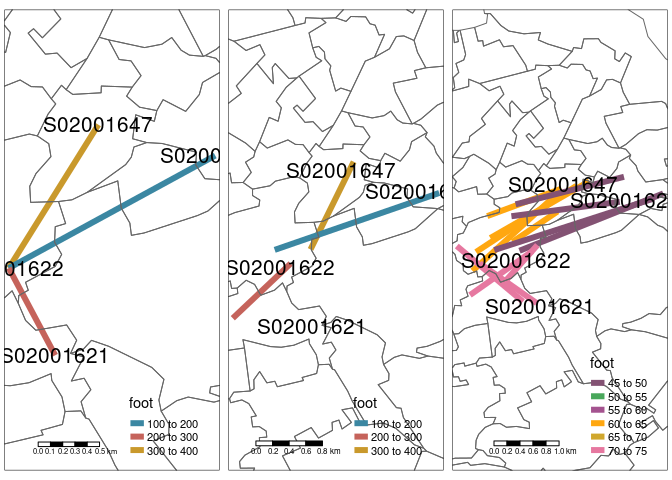
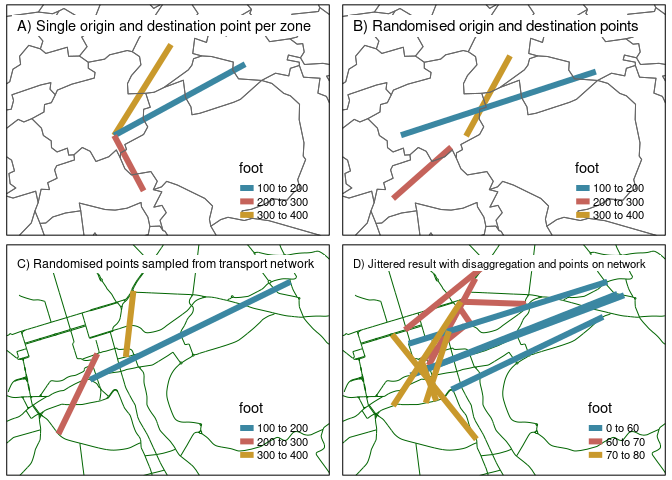
Add demo of jittering to transport network

diff --git a/README.md b/README.md
@@ -1,120 +1,130 @@
+Jittering: A computationally efficient method for generating realistic
+route networks from origin-destination data
+================
 
 <!-- README.md is generated from README.Rmd. Please edit that file -->
-
-# 1 Origin-destination Jittering: A computationally efficient method for generating realistic route networks from origin-destination data
-
 <!-- badges: start -->
 
 [![.github/workflows/render-rmarkdown.yaml](https://github.com/Robinlovelace/odjitter/actions/workflows/render-rmarkdown.yaml/badge.svg)](https://github.com/Robinlovelace/odjitter/actions/workflows/render-rmarkdown.yaml)
 <!-- badges: end -->
 
-# 2 Introduction
+# 1 Questions
 
-Origin-destination (OD) datasets are ubiquitous for representing travel
-behavior in transport planning and modelling. Despite emerging large
-data sources, OD data continues to play an established — if not central
-— role in transport research in the 21<sup>st</sup> century, with recent
-applications ranging from analysis of the evolution of urban activity
-and shared mobility services over time (e.g. Shi et al. 2019; Li et al.
-2019) to inference of congestion and mode split (Bachir et al. 2019; Gao
-et al. 2021). Perhaps in part because they are so well established,
-there has been little research in recent years on new methods for
-processing OD datasets to add value and insight, notwithstanding notable
-exceptions for OD dataset validation (Alexander et al. 2015),
-aggregation (He et al. 2018; Liu et al. 2021) and disaggregation
-(Katranji et al. 2016).
+Origin-destination (OD) datasets are ubiquitous, used by statistical and
+transport planning organisations to efficiently represent aggregate
+travel behavior worldwide. Despite emerging ‘big data’ sources such as
+massive GPS datasets, OD data continues to play an established — if not
+central — role in transport research in the 21<sup>st</sup> century.
+Recent applications range from analysis of the evolution of urban
+activity and shared mobility services over time (e.g. Shi et al. 2019;
+Li et al. 2019) to inference of congestion and mode split (Bachir et al.
+2019; Gao et al. 2021).
 
-An example of the utility of OD data, and the utility of open access
-(anonymised and aggregtated) OD data in particular, is Propensity to
-Cycle Tool (PCT), first launched nationally across England in 2017
-(Lovelace et al. 2017). The PCT provides a strong and consistent
-evidence-base that local authorities across England and Wales are using
-to inform strategic Local Cycling and Walking Plans. Based on OD data —
-initially for commuting trips only but subsequently also based on travel
-to school data (Goodman et al. 2019) — the tool visualises cycling
-potential at zone, desire line, route and route network levels. The PCT
-makes open OD data ‘come to life’ by converting a ‘haystack’ of data
-into meaningful insights into currently cycling levels and future
-potential, highlighting the need to invest in cohesive networks of
-cycling interventions, as illustrated in Figure
-<a href="#fig:haystack">2.1</a>.
+<!-- Perhaps in part because they are so well established, comparatively few recent research papers have explored new methods for processing OD datasets. -->
 
-![Figure 2.1: Illustration of how geographic visualisation and routing
-can add value to OD datasets and make them more policy
-relevant.](https://user-images.githubusercontent.com/1825120/142071229-81358e26-5e8d-437e-9ef8-91704a4e690f.png)
+Recent papers have presented new methods for OD dataset validation
+(Alexander et al. 2015), aggregation (He et al. 2018; Liu et al. 2021)
+and disaggregation (Katranji et al. 2016). To the best of our knowledge,
+this is the first paper to describe and test methods for randomising
+origin and destination points and disaggregation on a real world example
+using reproducible analysis and open access data, a process we refer to
+as ‘jittering’.
 
-The PCT is available for use by local authorities, consultancies,
-cycling advocacy groups, academic researchers and members of the public.
-Subsequent work building on the tool has been used to prioritise
-investment in active transport in the wake of the coronavirus pandemic
-(Lovelace et al. 2020). Due to lack of comparable OD data and/or lack of
-funding, comparable tools have yet to be developed for other countries.
-With the exception of regionally specific models using software such as
-sDNA (Cooper 2017) (the results of which are usually not in the public
-domain) and bespoke city-specific models (Larsen, Patterson, and
-El-Geneidy 2013; Zhang, Magalhaes, and Wang 2014), there are few large
-scale tools using OD data that are free for public use that we are aware
-of.
+<!-- In this paper we outline such methods and their uses, demonstrating how jittering can be used to create more diffuse and accurate estimates of movement at the level of segments ('flows') on transport network, with minimal computational overheads compared with the computationally intensive process of route calculation ('routing') or processing large GPS datasets. -->
+<!-- Long version of paper: -->
+<!-- We do this by defining OD datasets, their uses, and other terms in relation to jittering, in Section <a href="#od"><strong>??</strong></a>; describing a real world case study, input datasets, and methods, in Section <a href="#methods">2</a>; presenting the results of different jittering techniques in Section <a href="#findings">3</a>; and discussing the potential uses of and next steps for the development of methods to add value to OD datasets for sustainable transport planning in section <a href="#discussion"><strong>??</strong></a>. -->
+<!-- Short version of paper: -->
+<!-- We do this by defining OD datasets, their uses, and other terms in relation to jittering, in this introduction; outlining the research question with reference to a real world case study of modelling cycling networks in Edinburgh, in Section <a href="#q"><strong>??</strong></a>; describing the results in Section <a href="#methods">2</a>; and presenting the results of different jittering techniques in Section <a href="#findings">3</a>. -->
+<!-- # Origin-destination data {#od} -->
+<!-- First, a description of the utility of OD data in contemporary policy contexts, and definitions, are in order. -->
+<!-- An example of the utility of OD data, and the utility of open access (anonymised and aggregtated) OD data in particular, is Propensity to Cycle Tool (PCT), first launched nationally across England in 2017 [@lovelace_propensity_2017]. -->
+<!-- The PCT provides a strong and consistent evidence-base that local authorities across England and Wales are using to inform strategic Local Cycling and Walking Plans. -->
+<!-- Based on OD data --- initially for commuting trips only but subsequently also based on travel to school data [@goodman_scenarios_2019] --- the tool visualises cycling potential at zone, desire line, route and route network levels, and is being used by government, consultancy and public/advocacy stakeholders nationwide [@lovelace_open_2020]. -->
+<!-- The PCT makes open OD data 'come to life' by converting a 'haystack' of data into meaningful insights into currently cycling levels and future potential, highlighting the need to invest in cohesive networks of cycling interventions, as illustrated in Figure <a href="#fig:haystack"><strong>??</strong></a>. -->
+<!-- The PCT is available for use by local authorities, consultancies, cycling advocacy groups, academic researchers and members of the public. -->
+<!-- Subsequent work building on the tool has been used to prioritise investment in active transport in the wake of the coronavirus pandemic [@lovelace_methods_2020]. -->
+<!-- Comparable tools have yet to be developed and deployed publicly in most other countries. -->
+<!-- With the exception of regionally specific models using software such as sDNA [@cooper_using_2017] (the results of which are usually not in the public domain) and bespoke city-specific models [@larsen_build_2013; @zhang_prioritizing_2014], there are few large scale tools using OD data that are free for public use that we are aware of. -->
+<!-- In this context, this paper outlines methods to add further value to OD data through processes of disaggregating OD data and 'jittering' to increase the density of route networks arising from the conversion of OD data into route network outputs of the kind illustrated in Figure <a href="#fig:haystack"><strong>??</strong></a>. -->
 
-In this context, this paper outlines methods to add further value to OD
-data through processes of disaggregating OD data and ‘jittering’ to
-increase the density of route networks arising from the conversion of OD
-data into route network outputs of the kind illustrated in Figure
-<a href="#fig:haystack">2.1</a>.
+The following question motivated the development of the jittering
+approach presented in this paper:
 
-Before describing the methods, it is worth briefly defining OD data:
-datasets that consist of:
+> How can OD data representing trips between large geographic zones be
+> used more effectively, to generate results at the level of segments
+> representing route networks of current or potential flow to inform
+> local interventions?
 
--   **Origins**: information the departure for trips, typically a code
-    that refers to a geographic zone or a coordinate representing an
-    approximate point of departure
--   **Destination**: information representing the destination of trips
+Our hypothesis was that pre-processing OD data using methods described
+in this paper would lead to more effective use of OD data in transport
+planning. Before describing the approach to answer this question, some
+definitions are in order:
+
+<!-- , it is worth briefly defining OD data: datasets that consist of: -->
+
+-   **Origins**: information the departure for trips, in this context
+    IDs associated with zones of departure
+-   **Destinations**: IDs representing the destination of trips
 -   **Attributes**: typically the number of trips made between each ‘OD
     pair’, sometimes by mode and with additional attributes such as the
     Euclidean and route distance between the each OD pair
+-   **Jittering**: The combined process of ‘splitting’ OD pairs
+    representing many trips into multiple ‘sub OD’ pairs
+    (disaggregation) and assigning origins and destinations to multiple
+    unique points within each zone
 
-# 3 Research question and hypothesis
-
-The study area is the City of Edinburgh, a local authority with a
-population of just over half a million (524,930 as of
-[2019](https://www.nrscotland.gov.uk/files/statistics/council-area-data-sheets/city-of-edinburgh-council-profile.html)).
-The population was 480,139 in the 2011 Census, 237,839 of whom were
-employed. In the 2011 Census, 4.3% of residents of the area reported
-cycling to work, ranging from 1% in Intermediate Zone (IZ) Ferniehill,
-South Moredun and Craigour to 10% in the IZ Marchmont West. There are
-101 IZs (2001 definition) in the study region (see Figure
-<a href="#fig:izs"><strong>??</strong></a>).
-
-<img src="figures/overview-zones-iz.png" title="Overview of the study region with the percentage cycling to work in 2011 at the level of Intermediate Zones corresponding to fill colour." alt="Overview of the study region with the percentage cycling to work in 2011 at the level of Intermediate Zones corresponding to fill colour." width="90%" />
-
-# 4 Methods and data
+# 2 Methods
 
 <!-- The methods described in this paper were developed to support a project to support Edinburgh City Council with their strategic cycle network planning activity. -->
 <!-- To understand the method and results it makes sense to start by introducing the case study area. -->
 <!-- ## A synthetic example: synthetic zones -->
 <!-- ## Real world example: Edinburgh -->
 
+The study area is the City of Edinburgh, a local authority with a
+population of just over half a million
+[people](https://www.nrscotland.gov.uk/files/statistics/council-area-data-sheets/city-of-edinburgh-council-profile.html)
+(see Figure <a href="#fig:izs"><strong>??</strong></a>).
+
+<img src="figures/overview-minimap.png" title="Overview of the study region with the population from the 2011 Census at the level of Intermediate Zones corresponding to fill colour." alt="Overview of the study region with the population from the 2011 Census at the level of Intermediate Zones corresponding to fill colour." width="90%" />
+
 Beyond the zone data illustrated in Figure
 <a href="#fig:izs"><strong>??</strong></a>, the input dataset consisted
 of open access OD data from the 2011 census. The OD data can be
 represented as both tabular and, when start and end points are assigned
 to centroids within each zone, as geographic entities, as illustrated in
-Figure <a href="#fig:od"><strong>??</strong></a>, which presents data at
-the zone and OD level for the top 3 OD pairs by number of interzonal
-travel between zones by all modes in Edinburgh in tabular and visual
-form. The zone boundaries are based on open boundary data provided by
-data.gov.uk at the Middle Super Output Area (MSOA) level.
+a sample of three OD pairs presented in Figure
+<a href="#fig:od"><strong>??</strong></a>.
+<!-- , which presents data at the zone and OD level for the top 3 OD pairs by number of interzonal travel between zones by all modes in Edinburgh in tabular and visual form. -->
+<!-- The zone boundaries are based on open boundary data provided by data.gov.uk at the Middle Super Output Area (MSOA) level. -->
+<!-- The population was 480,139 in the 2011 Census, 237,839 of whom were employed. -->
+<!-- In the 2011 Census, 4.3% of residents of the area reported cycling to work, ranging from 1% in Intermediate Zone (IZ) Ferniehill, South Moredun and Craigour to 10% in the IZ Marchmont West. -->
+<!-- There are 101 IZs (2001 definition) in the study region. -->
 
-<img src="figures/od-top-3-table.png" title="Illustration of input data in tabular (above) and geographic form (below)." alt="Illustration of input data in tabular (above) and geographic form (below)." width="100%" /><img src="figures/od-top-3.png" title="Illustration of input data in tabular (above) and geographic form (below)." alt="Illustration of input data in tabular (above) and geographic form (below)." width="100%" />
+<img src="figures/od-top-3-zones-metafigure.png" title="Illustration of input data in tabular (bottom right, inset) and geographic form (in the map). Note how the ID codes in the first to columns of the table correspond with IDs in the zone data and how the cells in the 'foot' column are represented geographically on the map." alt="Illustration of input data in tabular (bottom right, inset) and geographic form (in the map). Note how the ID codes in the first to columns of the table correspond with IDs in the zone data and how the cells in the 'foot' column are represented geographically on the map." width="100%" />
 
-## 4.1 Jittering
+The techniques outlined in the following sub-sections are perhaps best
+understood visually, as illustrated in Figure
+<a href="#fig:jitters">2.1</a>. The remainder of this section describes
+the methods illustrated in each of the facetted maps in Figure
+<a href="#fig:jitters">2.1</a>.
 
-## 4.2 Disaggregation
-
-![Figure 4.1: Illustration of jittering and disaggregation of OD data on
+![Figure 2.1: Illustration of jittering and disaggregation of OD data on
 small input dataset.](README_files/figure-gfm/jitters-1.png)
 
-# 5 Findings
+## 2.1 Random sampling of origin and destination points
+
+## 2.2 Sampling origin and destination points from the transport network
+
+## 2.3 Disaggregation
+
+## 2.4 Jittering
+
+We refer to the combined process of sampling origin and destination
+points — either using simple random geographic sampling, sampling from
+the transport network, or other sampling technique — and disagreggation
+as jittering.
+
+# 3 Findings
 
 We found that re-sampling origin and start points during the conversion
 of tabular OD datasets to their representation as geographic ‘desire
@@ -127,7 +137,9 @@ label this group of techniques ‘origin-destination jittering’.
 We found that OD jittering led to substantially more dense and realistic
 route networks.
 
-# 6 References
+<!-- # Discussion -->
+
+# 4 References
 
 <div id="refs" class="references csl-bib-body hanging-indent">
 
@@ -149,15 +161,6 @@ Origin-Destination Flows by Transport Mode Using Mobile Phone Data.”
 
 </div>
 
-<div id="ref-cooper_using_2017" class="csl-entry">
-
-Cooper, Crispin H. V. 2017. “Using Spatial Network Analysis to Model
-Pedal Cycle Flows, Risk and Mode Choice.” *Journal of Transport
-Geography* 58 (January): 157–65.
-<https://doi.org/10.1016/j.jtrangeo.2016.12.003>.
-
-</div>
-
 <div id="ref-gao_method_2021" class="csl-entry">
 
 Gao, Hong, Zhenjun Yan, Xu Hu, Zhaoyuan Yu, Wen Luo, Linwang Yuan, and
@@ -165,17 +168,6 @@ Jiyi Zhang. 2021. “A Method for Exploring and Analyzing Spatiotemporal
 Patterns of Traffic Congestion in Expressway Networks Based on
 Origin–Destination Data.” *ISPRS International Journal of
 Geo-Information* 10 (5): 288.
-
-</div>
-
-<div id="ref-goodman_scenarios_2019" class="csl-entry">
-
-Goodman, Anna, Ilan Fridman Rojas, James Woodcock, Rachel Aldred,
-Nikolai Berkoff, Malcolm Morgan, Ali Abbas, and Robin Lovelace. 2019.
-“Scenarios of Cycling to School in England, and Associated Health and
-Carbon Impacts: Application of the ‘Propensity to Cycle Tool’.” *Journal
-of Transport & Health* 12 (March): 263–78.
-<https://doi.org/10.1016/j.jth.2019.01.008>.
 
 </div>
 
@@ -199,16 +191,6 @@ Intelligent Transportation Systems (ITSC)*, 1672–77.
 
 </div>
 
-<div id="ref-larsen_build_2013" class="csl-entry">
-
-Larsen, Jacob, Zachary Patterson, and Ahmed El-Geneidy. 2013. “Build It.
-But Where? The Use of Geographic Information Systems in Identifying
-Locations for New Cycling Infrastructure.” *International Journal of
-Sustainable Transportation* 7 (4): 299–317.
-<http://www.tandfonline.com/doi/abs/10.1080/15568318.2011.631098>.
-
-</div>
-
 <div id="ref-li_effects_2019" class="csl-entry">
 
 Li, Haojie, Yingheng Zhang, Hongliang Ding, and Gang Ren. 2019. “Effects
@@ -227,39 +209,11 @@ Geographical Information Science*, 1–27.
 
 </div>
 
-<div id="ref-lovelace_propensity_2017" class="csl-entry">
-
-Lovelace, Robin, Anna Goodman, Rachel Aldred, Nikolai Berkoff, Ali
-Abbas, and James Woodcock. 2017. “The Propensity to Cycle Tool: An Open
-Source Online System for Sustainable Transport Planning.” *Journal of
-Transport and Land Use* 10 (1). <https://doi.org/10.5198/jtlu.2016.862>.
-
-</div>
-
-<div id="ref-lovelace_methods_2020" class="csl-entry">
-
-Lovelace, Robin, Joseph Talbot, Malcolm Morgan, and Martin Lucas-Smith.
-2020. “Methods to Prioritise Pop-up Active Transport Infrastructure.”
-*Transport Findings*, July, 13421.
-<https://doi.org/10.32866/001c.13421>.
-
-</div>
-
 <div id="ref-shi_exploring_2019" class="csl-entry">
 
 Shi, Xiaoying, Fanshun Lv, Dewen Seng, Baixi Xing, and Jing Chen. 2019.
 “Exploring the Evolutionary Patterns of Urban Activity Areas Based on
 Origin-Destination Data.” *IEEE Access* 7: 20416–31.
-
-</div>
-
-<div id="ref-zhang_prioritizing_2014" class="csl-entry">
-
-Zhang, Dapeng, David Jose Ahouagi Vaz Magalhaes, and Xiaokun (Cara)
-Wang. 2014. “Prioritizing Bicycle Paths in Belo Horizonte City, Brazil:
-Analysis Based on User Preferences and Willingness Considering
-Individual Heterogeneity.” *Transportation Research Part A: Policy and
-Practice* 67: 268–78. <https://doi.org/10.1016/j.tra.2014.07.010>.
 
 </div>
 
